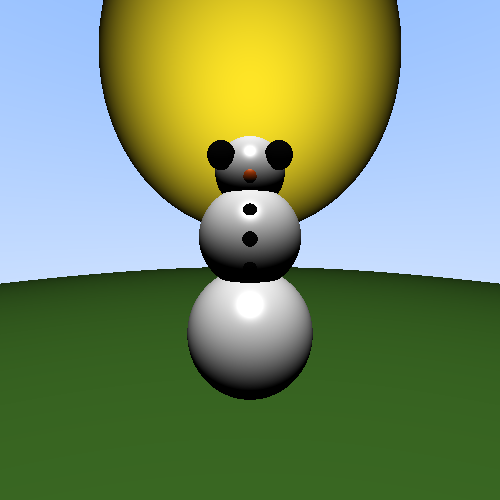
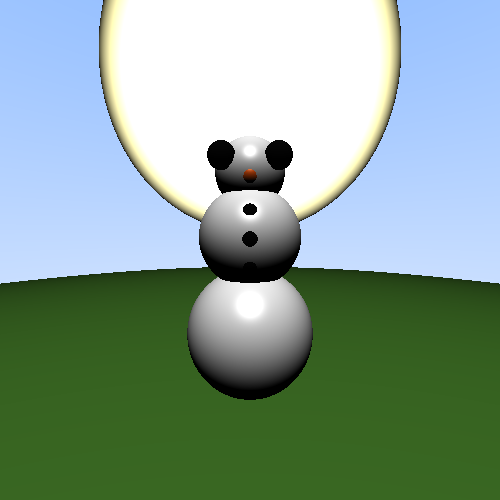
made the sun more like a sun: blinding

Changed region(s): [[0.18, 0.0, 0.81, 0.45]]

diff --git a/src/main.cc b/src/main.cc
@@ -48,8 +48,8 @@ int main() {
         color(1.0, 0.35, 0.05), color(1, 1, 1), 32.0f, 0.4f, snowman_scene.light);
     auto ground = std::make_shared<LambertianShader>(
         color(0.25, 0.45, 0.15), snowman_scene.light);
-    auto sun = std::make_shared<LambertianShader>(
-        color(1.0, 0.9, 0.15), snowman_scene.light);
+    auto sun = std::make_shared<BlinnPhongShader>(
+        color(1.0, 0.9, 0.15), color(1, 1, 1), 1.0f, 2.0f, snowman_scene.light);
 
     snowman_scene.objects.push_back(
         std::make_shared<sphere>(point3(0, -100.5, -1), 100, ground));
